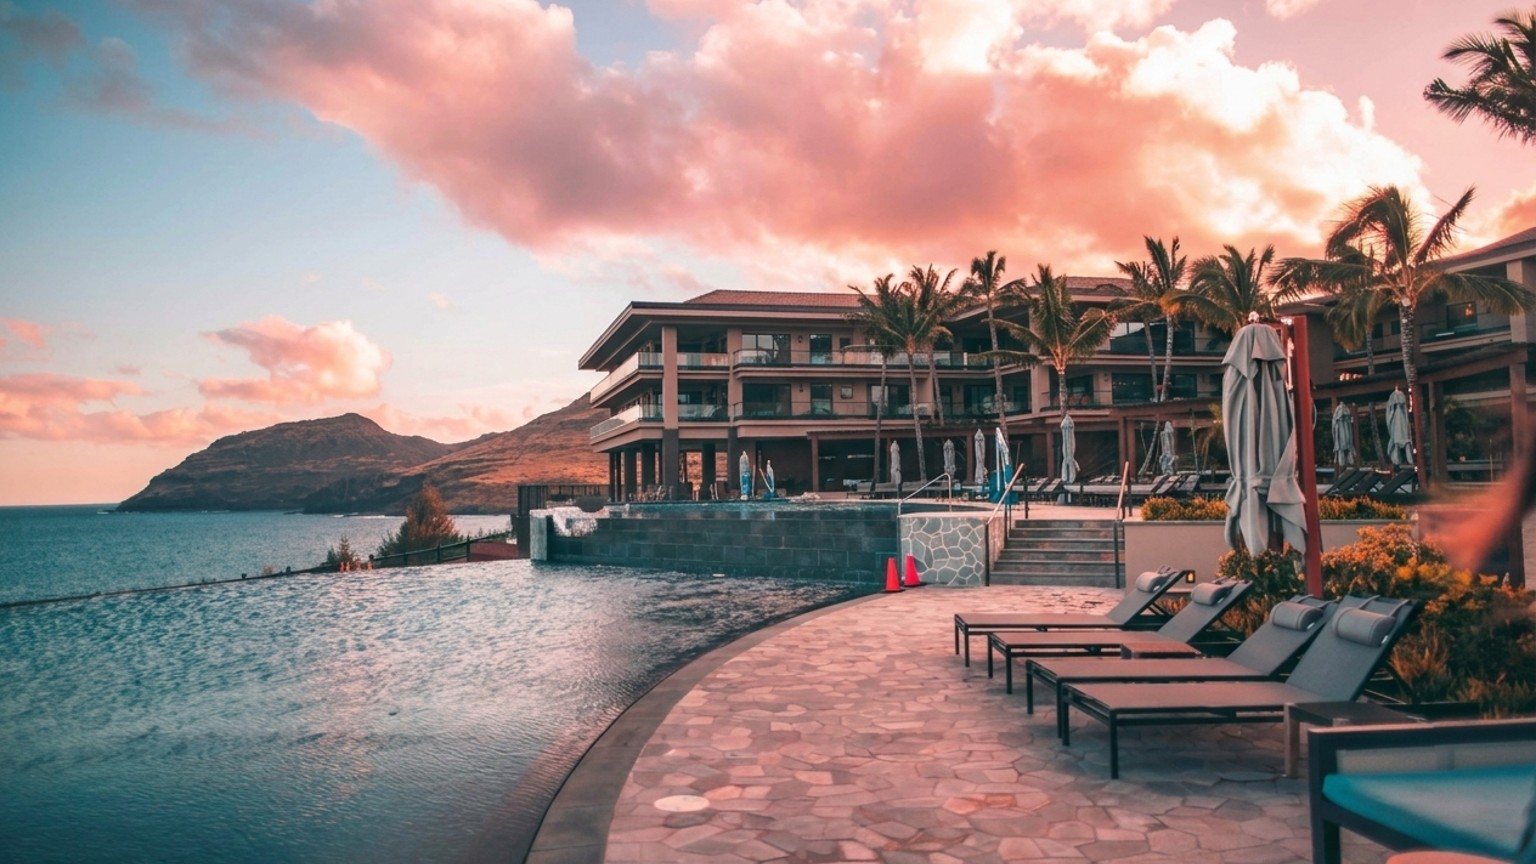
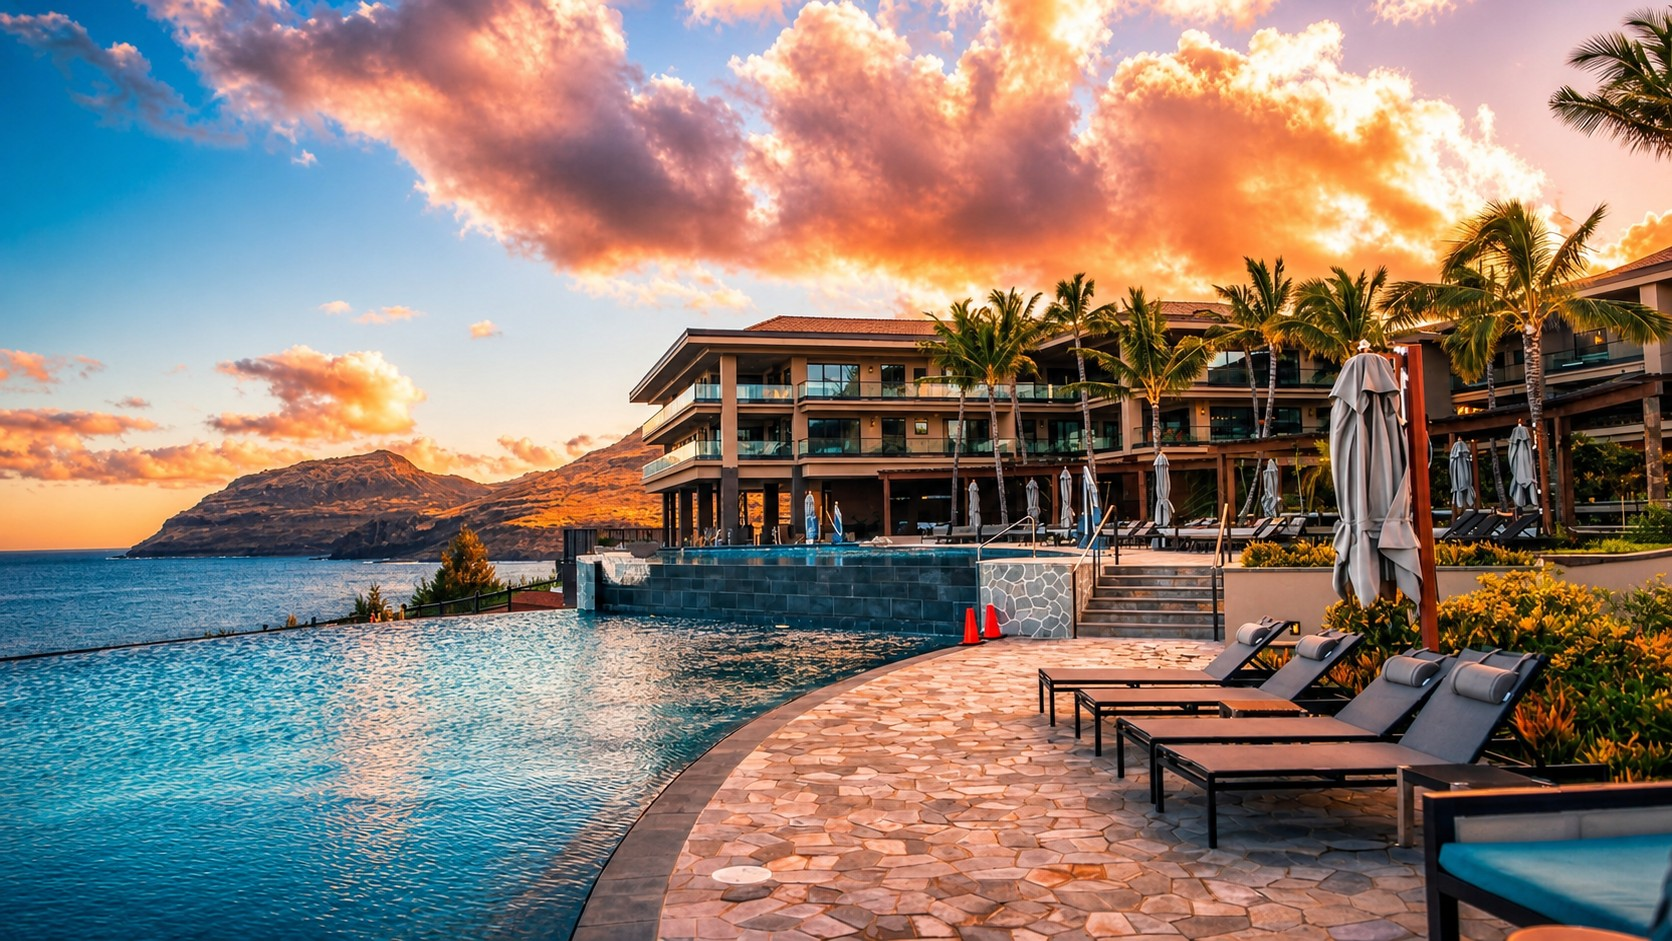
Refresh hero background and presentation

diff --git a/styles.css b/styles.css
@@ -40,32 +40,41 @@ nav a:hover { color: var(--accent); }
 /* Hero */
 .hero {
   padding: 110px 0 90px;
-  min-height: 610px;
+  min-height: 640px;
   background-image: url("images/hero/resort-hotel-hero.jpg");
   background-size: cover;
-  background-position: center;
+  background-position: center 52%;
 }
 .hero .wrap {
-  min-height: 410px;
+  min-height: 440px;
   display: flex;
   align-items: center;
 }
 .hero-content {
-  max-width: 690px;
-  padding: 38px 44px 42px;
-  background: rgba(250, 248, 243, .84);
-  border: 1px solid rgba(255, 255, 255, .78);
+  max-width: 670px;
+  padding: 36px 44px 40px;
+  background: rgba(255, 252, 247, .89);
+  border: 1px solid rgba(255, 255, 255, .88);
   border-left: 4px solid var(--accent);
-  box-shadow: 0 18px 45px rgba(25, 32, 38, .14);
-  backdrop-filter: blur(7px);
+  box-shadow: 0 20px 48px rgba(25, 32, 38, .18);
+  backdrop-filter: blur(8px);
+}
+.hero-kicker {
+  display: block;
+  margin-bottom: 17px;
+  color: var(--accent);
+  font-size: 11px;
+  font-weight: 700;
+  letter-spacing: 3px;
+  line-height: 1.4;
 }
 .hero h1 {
   color: #23313d;
   font-size: 48px;
   font-weight: 500;
-  line-height: 1.18;
-  letter-spacing: .2px;
-  max-width: 620px;
+  line-height: 1.16;
+  letter-spacing: .1px;
+  max-width: 600px;
 }
 .hero p {
   margin-top: 20px;
@@ -168,11 +177,12 @@ nav a:hover { color: var(--accent); }
 @media (max-width: 640px) {
   .hero {
     min-height: 690px;
-    padding: 90px 0 70px;
-    background-position: 61% center;
+    padding: 82px 0 64px;
+    background-position: 58% center;
   }
-  .hero .wrap { min-height: 530px; }
-  .hero-content { padding: 30px 24px 32px; }
+  .hero .wrap { min-height: 544px; }
+  .hero-content { padding: 29px 24px 31px; }
+  .hero-kicker { margin-bottom: 14px; font-size: 10px; letter-spacing: 2.4px; }
   .hero h1 { font-size: 34px; }
   .hero p { font-size: 16px; }
   .hero-actions { margin-top: 28px; }

diff --git a/index.html b/index.html
@@ -27,6 +27,7 @@
 <section id="home" class="hero">
   <div class="wrap">
     <div class="hero-content">
+      <span class="hero-kicker">LI &amp; FUNG HOSPITALITY</span>
       <h1 id="hero-tagline"></h1>
       <p id="hero-intro"></p>
       <div class="hero-actions">
